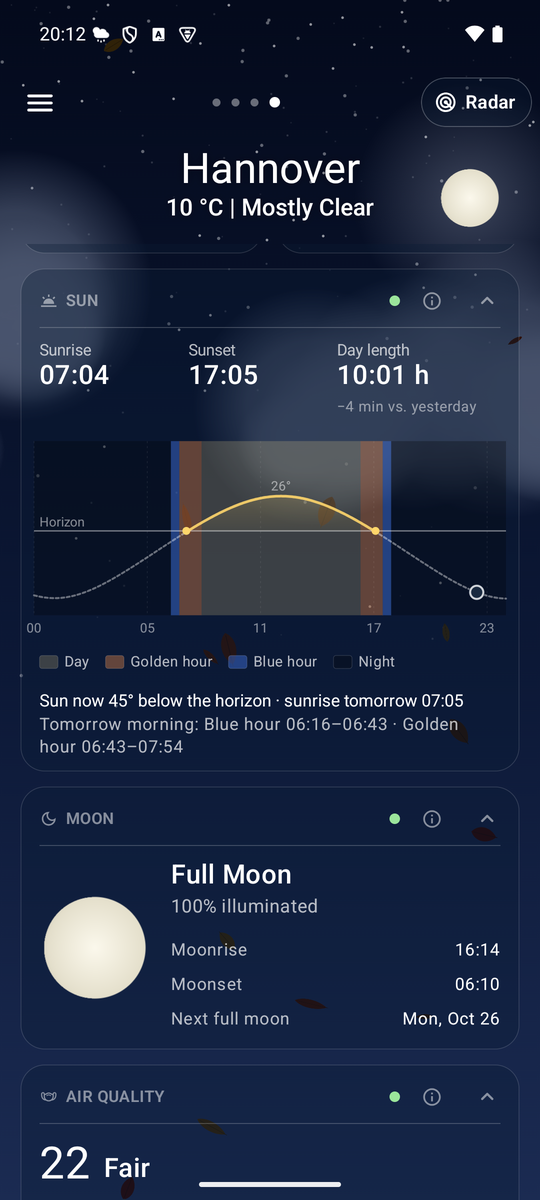
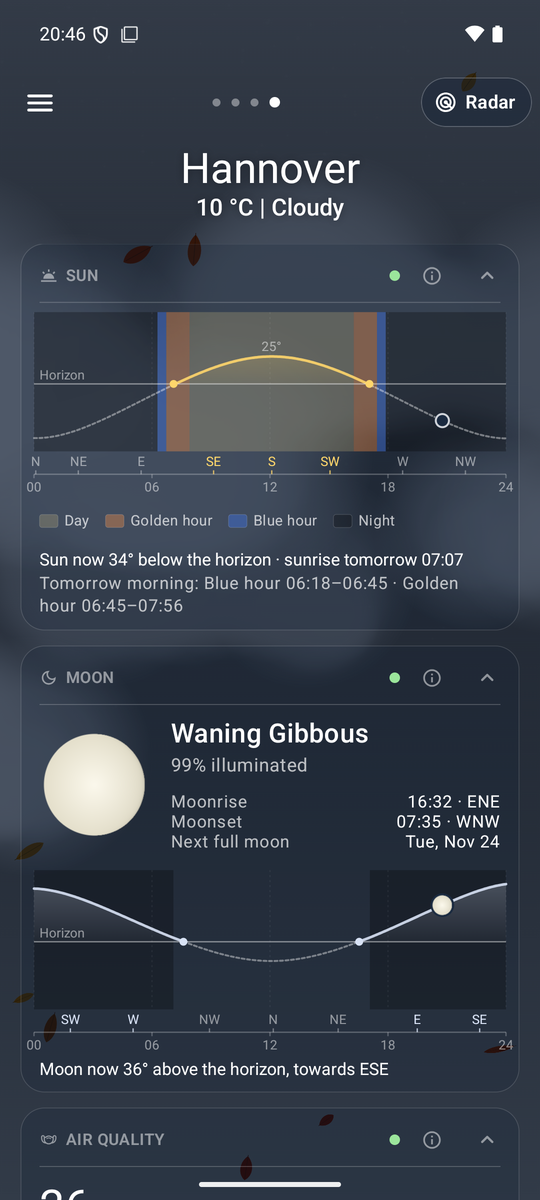
Sun and moon pictures taken anew with 2.3.2
- Store (de-DE, en-US, 1080 × 2160) and docs (de, en, 540 × 1200): Hannover on 26 Oct. 2026 in
  the evening, the sun's chart with its directions and the whole moon card with its arc
- README: the caption names the moon's arc and the directions

diff --git a/README.en.md b/README.en.md
@@ -38,7 +38,7 @@ the DWD and the KNMI. No ads, no account, no Google services. The app speaks Eng
   </tr>
   <tr>
     <td align="center"><img src="docs/screenshots/en/radar.png" width="240" alt="Rain radar"><br><sub><b>Rain radar</b><br>live with a two-hour nowcast, here the day in the look-back with lightning</sub></td>
-    <td align="center"><img src="docs/screenshots/en/sun.png" width="240" alt="Sun and moon"><br><sub><b>Sun and moon</b><br>sun arc with golden and blue hour, the moon as in the sky</sub></td>
+    <td align="center"><img src="docs/screenshots/en/sun.png" width="240" alt="Sun and moon"><br><sub><b>Sun and moon</b><br>the sun's and the moon's arc with the directions, golden and blue hour</sub></td>
     <td align="center"><img src="docs/screenshots/en/widget.png" width="240" alt="Widget"><br><sub><b>Widget</b><br>clock and weather, rain of the next two hours, pollen – each part leads into the app</sub></td>
   </tr>
   <tr>

diff --git a/README.md b/README.md
@@ -38,7 +38,7 @@ und KNMI. Keine Werbung, kein Konto, keine Google-Dienste.
   </tr>
   <tr>
     <td align="center"><img src="docs/screenshots/radar.png" width="240" alt="Regenradar"><br><sub><b>Regenradar</b><br>Live mit 2 Stunden Vorhersage, hier der Tag im Rückblick mit Blitzen</sub></td>
-    <td align="center"><img src="docs/screenshots/sun.png" width="240" alt="Sonne und Mond"><br><sub><b>Sonne und Mond</b><br>Sonnenbogen mit Morgenrot und Blauer Stunde, der Mond wie am Himmel</sub></td>
+    <td align="center"><img src="docs/screenshots/sun.png" width="240" alt="Sonne und Mond"><br><sub><b>Sonne und Mond</b><br>Sonnen- und Mondbogen mit Himmelsrichtungen, Morgenrot und Blaue Stunde</sub></td>
     <td align="center"><img src="docs/screenshots/widget.png" width="240" alt="Widget"><br><sub><b>Widget</b><br>Uhr und Wetter, Regen der nächsten zwei Stunden, Pollen – jedes Teil führt in die App</sub></td>
   </tr>
   <tr>
